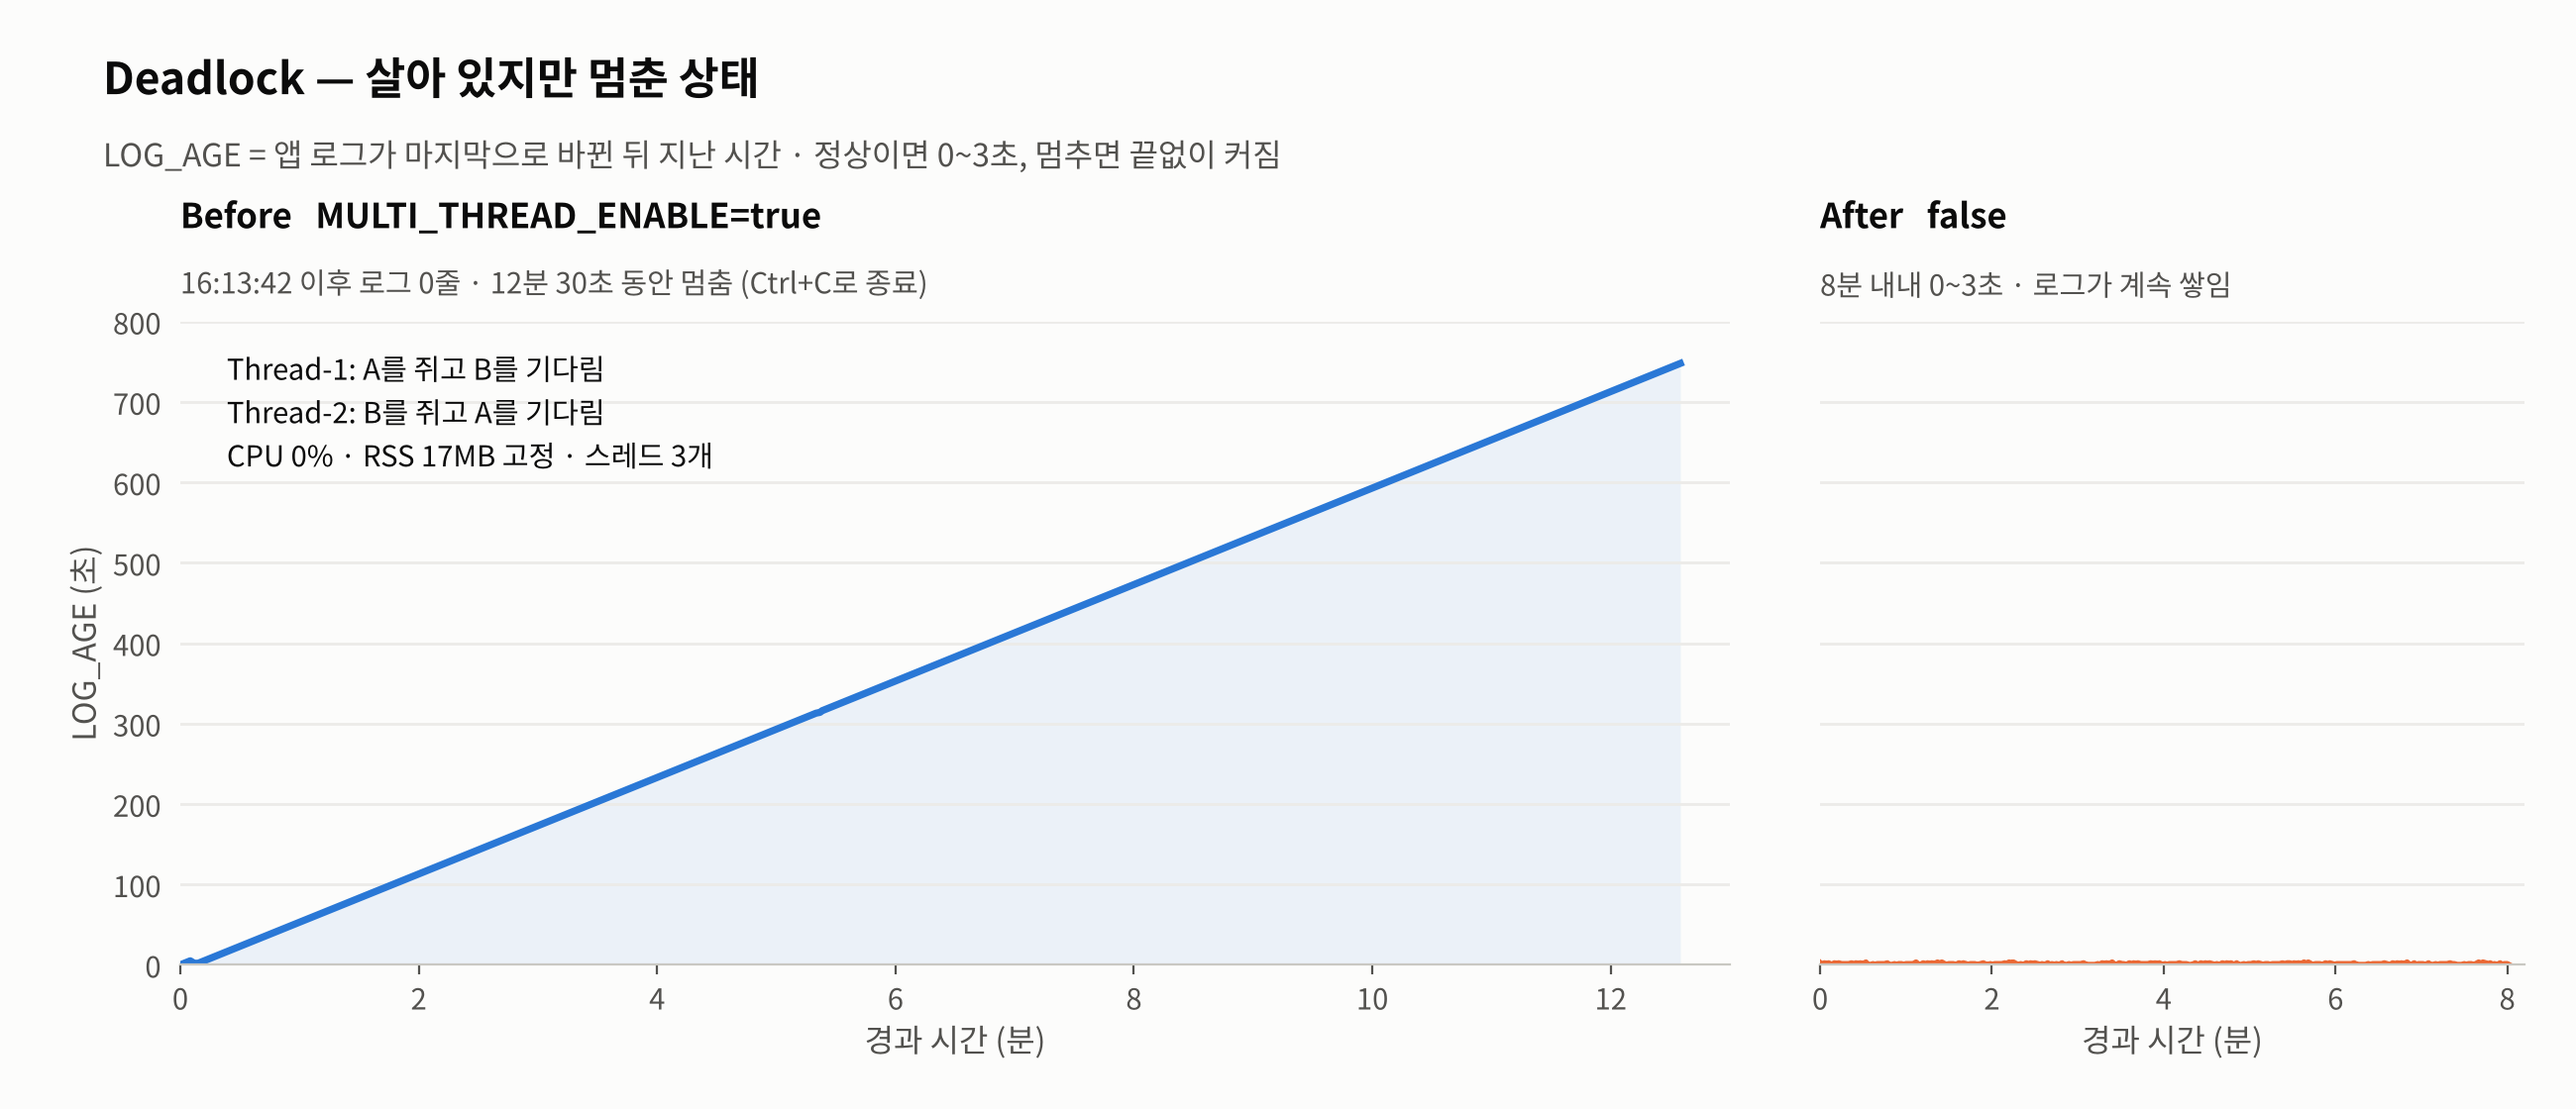
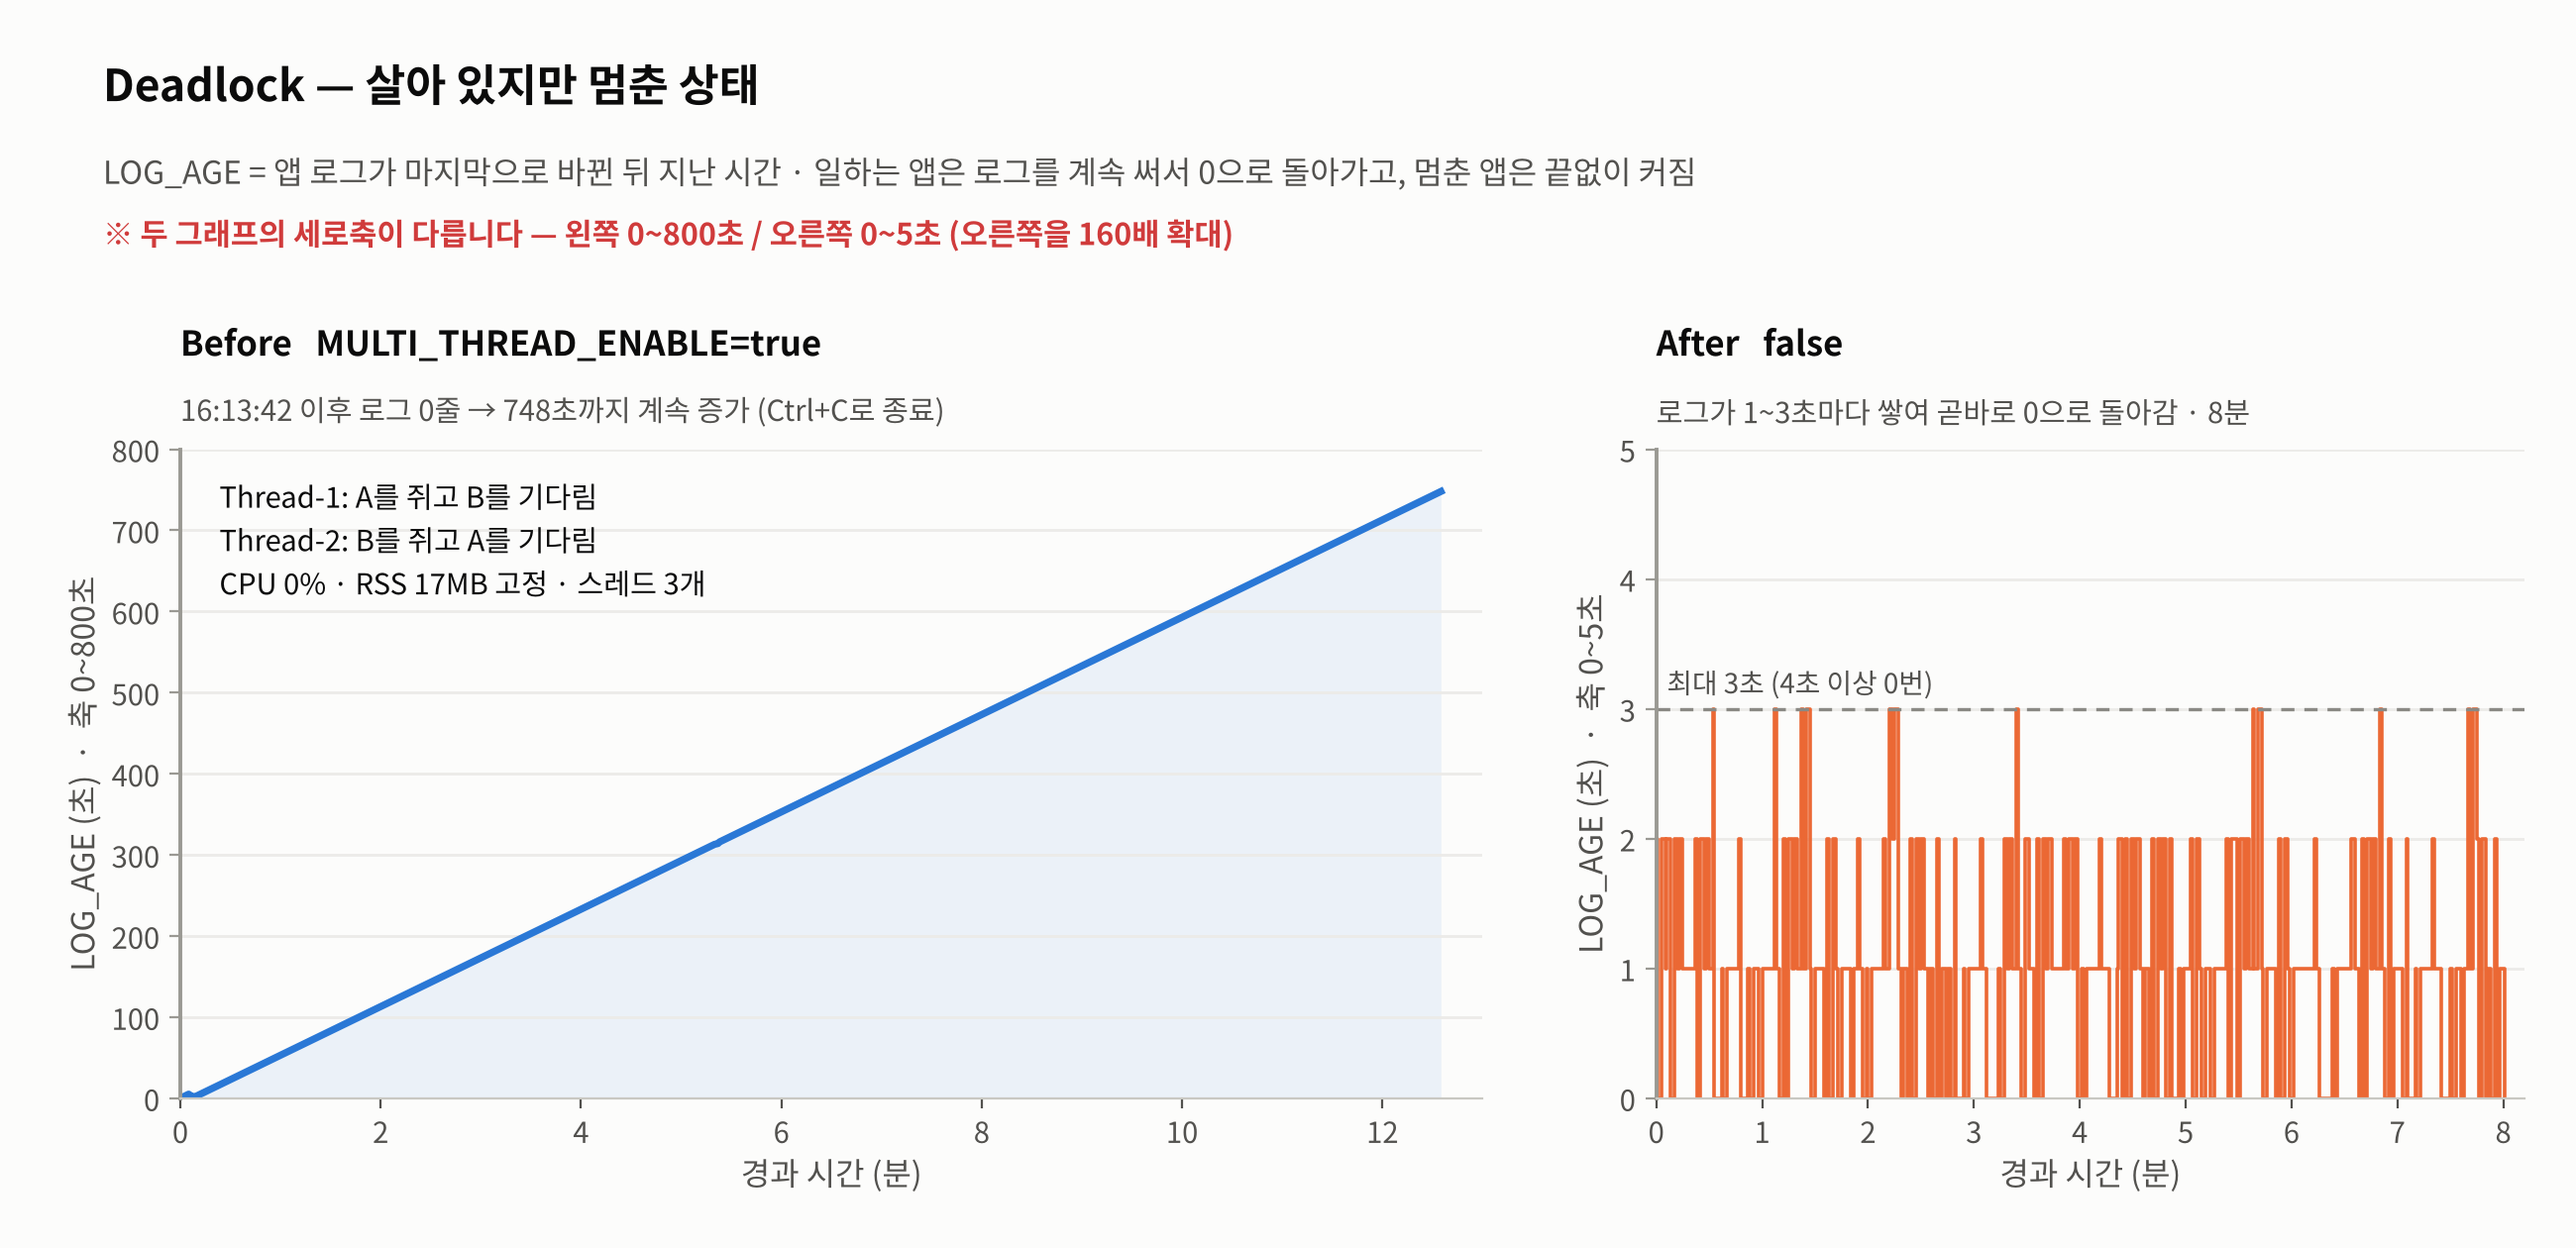
Part 1에 실험 3가지 섹션: 실험마다 바꾼 값·로그·그래프·결론을 한곳에. Deadlock 그래프 After는 0~5초 별도 축으로 다시 그림
Claude-Session: https://claude.ai/code/session_01Fc1TnFAbeVJZrePp6zASFu

diff --git a/README.md b/README.md
@@ -14,7 +14,7 @@
 
 | 부분 | 내용 | 바로 가기 |
 |:--|:--|:--|
-| **Part 1** 과제 이해와 수행 | 무슨 과제인지, 어떤 프로그램인지, 어떻게 분석했고 결과가 무엇인지 (Before → After 그래프 포함) | [이 과제는 무엇인가](#-이-과제는-무엇인가) |
+| **Part 1** 과제 이해와 수행 | 무슨 과제인지, 어떤 프로그램인지, 어떻게 분석했고 결과가 무엇인지 (실험 3가지의 로그·그래프·결론 포함) | [이 과제는 무엇인가](#-이-과제는-무엇인가) |
 | **Part 2** 평가표 기준 설명 | 평가표 20문항을 원문 순서대로, 질문마다 답과 근거(그래프·로그·스크린샷) | [한눈에 보는 답](#-한눈에-보는-답-20문항) |
 | └ 리포트 3건 | GitHub Issue 형식 (현상 → 증거 → 원인 → 조치) | [1-7](#1-7-format-리포트-3건의-issue-구조) |
 | └ 스크린샷 16장 | 사진마다 강조와 근거·의미 설명 | [1-8](#1-8-evidence-pid--타임스탬프--핵심-로그-증거) |
@@ -146,40 +146,83 @@
 | **조치** | `MEMORY_LIMIT` 128 → **512** | `CPU_MAX_OCCUPY` 100 → **40** | `MULTI_THREAD_ENABLE` → **false** |
 | **After** | ✅ 8분 이상 생존 | ✅ 8분 이상 생존 | ✅ 로그가 계속 쌓임 |
 
-> 장애 이름을 누르면 Part 2의 증거로 이동합니다. 리포트 3건 전문은 [1-7](#1-7-format-리포트-3건의-issue-구조)에 있습니다.
+> 실험별 로그·그래프는 바로 아래 [🧪 실험 3가지](#-실험-3가지-무엇을-바꿨고-무엇이-보였나)에, 평가표 답은 장애 이름을 누르면 Part 2로 이동합니다. 리포트 3건 전문은 [1-7](#1-7-format-리포트-3건의-issue-구조)에 있습니다.
 
-### 📊 그래프로 보는 Before → After
+<br>
 
-세 그래프 모두 **왼쪽이 장애 값(Before), 오른쪽이 고친 값(After)** 입니다. monitor.sh가 1초마다 잰 실측값과 앱 로그로 그렸습니다.
+## 🧪 실험 3가지: 무엇을 바꿨고 무엇이 보였나
 
-#### 🔴 OOM - 메모리가 한도를 넘는가
+**실험 방법** - 정상값(`512 / 40 / false`)에서 **값 하나만** 바꿔 실행하고, 다른 탭에서 monitor.sh로 1초마다 기록했습니다. 고친 값(After)은 정상 실행 한 번(PID 7633, 8분)으로 세 실험을 함께 비교합니다.
+
+각 실험은 **① 무엇을 바꿨나 → ② 앱 로그 → ③ 그래프(왼쪽 Before / 오른쪽 After) → ④ 결론** 순서입니다.
+
+### 🔴 실험 1. OOM - 메모리가 한도를 넘는가
+
+| 바꾼 값 | 실행 | PID · 시각 | 결과 |
+|:--|:--|:--|:--|
+| `MEMORY_LIMIT` 512 → **128** | `MEMORY_LIMIT=128 ./agent-leak-app-x86` | 2363 · 16:06:21 ~ 16:06:38 | **17초 만에 강제 종료** (exit=137) |
+
+```
+16:06:38 [INFO]     [MemoryWorker] Current Heap: 150MB
+16:06:38 [CRITICAL] [MemoryGuard] Memory limit exceeded (150MB >= 128MB)
+16:06:38 [CRITICAL] [MemoryGuard] Self-terminating process 2363 to prevent system instability.
+Killed / exit=137   ← 128 + 9 = SIGKILL
+```
 
 ![OOM Before & After](images/chart_oom.png)
 
-- **Before (128MB)** - 메모리가 3초마다 25MB씩 계단처럼 오르다가, 한도 128MB를 넘자 **17초 만에 강제 종료**(빨간 점)
-- **After (512MB)** - 똑같이 오르지만 525MB에서 앱이 스스로 정리하고 다시 오름(톱니 모양 7번) → **8분 이상 생존**
-- 읽는 법: 오르는 속도는 둘이 같습니다. **한도만 높여 시간을 번 것**이라 근본 해결은 아닙니다 → [4-4](#4-4-코드-레벨-개선)
+- **Before (128MB)** - 메모리가 3초마다 25MB씩 계단처럼 오르다가, 한도 128MB를 넘자 강제 종료(빨간 점)
+- **After (512MB)** - 똑같이 오르지만 525MB에서 앱이 스스로 정리하고 다시 오름(톱니 7번) → **8분 이상 생존**
+- **결론** - 오르는 속도는 둘이 같습니다. **한도만 높여 시간을 번 임시 조치**이고, 근본 해결은 [4-4 코드 개선](#4-4-코드-레벨-개선)입니다
 
-#### 🟠 CPU Spike - 부하가 종료 기준을 넘는가
+📸 [스크린샷 1-1 · 1-2](#-1--oom-실험) · 📄 [리포트](#bug-oom---메모리가-3초마다-25mb씩-쌓이다가-17초-만에-memoryguard가-프로세스를-강제-종료) · ✅ 평가표 [1-1](#1-1-oom-메모리-선형-증가--강제-종료-패턴) · [1-2](#1-2-oom-memory_limit-조정-before--after)
+
+### 🟠 실험 2. CPU Spike - 부하가 종료 기준을 넘는가
+
+| 바꾼 값 | 실행 | PID · 시각 | 결과 |
+|:--|:--|:--|:--|
+| `CPU_MAX_OCCUPY` 40 → **100** | `CPU_MAX_OCCUPY=100 ./agent-leak-app-x86` | 2606 · 16:09:03 ~ 16:09:48 | **46초 만에 종료** (exit=143) |
+
+```
+16:09:33 [INFO]     [CpuWorker] Current Load: 40.87%
+16:09:48 [INFO]     [CpuWorker] Current Load: 51.22%
+16:09:48 [CRITICAL] [CpuWorker] CPU Threshold Violated! (51.22%).
+>>> [SYSTEM] WATCHDOG: INITIATING EMERGENCY ABORT (SIGTERM) <<<
+Terminated / exit=143   ← 128 + 15 = SIGTERM
+```
 
 ![CPU Before & After](images/chart_cpu.png)
 
-- **Before (100%)** - 앱이 보고한 부하(파랑)가 계속 올라 빨간 점선(약 50%)을 넘는 순간 **46초 만에 종료**
+- **Before (100%)** - 앱이 보고한 부하(파랑)가 계속 올라 빨간 점선(약 50%)을 넘는 순간 종료. 같은 설정으로 6번 실행해 6번 모두 50~57%에서 종료
 - **After (40%)** - 40%에 닿으면 식혔다가 다시 오름 → 점선에 한 번도 닿지 않고 **8분 이상 생존**
-- 읽는 법: 주황선(OS가 잰 실제 CPU)은 내내 0~10%입니다. 종료를 결정한 것은 **앱이 스스로 보고한 수치**입니다
+- **결론** - 주황선(OS가 잰 실제 CPU)은 내내 0~10%입니다. 종료를 결정한 것은 **앱이 스스로 보고한 수치**이고, 부하 상한(100)이 종료 기준(50)보다 높게 설정된 것이 원인입니다
 
-#### 🟣 Deadlock - 살아 있는데 일을 하는가
+📸 [스크린샷 2-1 ~ 2-3](#-2--cpu-spike-실험) · 📄 [리포트](#bug-cpu-spike---앱이-보고한-cpu-부하가-50를-넘는-순간-watchdog이-sigterm으로-종료) · ✅ 평가표 [1-3](#1-3-cpu-임계치-초과--종료-패턴) · [1-4](#1-4-cpu-cpu_max_occupy-조정-before--after)
+
+### 🟣 실험 3. Deadlock - 살아 있는데 일을 하는가
+
+| 바꾼 값 | 실행 | PID · 시각 | 결과 |
+|:--|:--|:--|:--|
+| `MULTI_THREAD_ENABLE` false → **true** | `MULTI_THREAD_ENABLE=true ./agent-leak-app-x86` | 2916 · 16:13:40 ~ | **꺼지지 않고 멈춤** (12분 29초 뒤 Ctrl+C) |
+
+```
+16:13:40 [Worker-Thread-1] LOCK ACQUIRED: [Shared_Memory_A]. (Holding...)
+16:13:40 [Worker-Thread-2] LOCK ACQUIRED: [Socket_Pool_B]. (Holding...)
+16:13:42 [Worker-Thread-1] WAITING for [Socket_Pool_B]...   (Status: BLOCKED)
+16:13:42 [Worker-Thread-2] WAITING for [Shared_Memory_A]... (Status: BLOCKED)
+(이후 로그 0줄)
+```
 
 ![Deadlock Before & After](images/chart_deadlock.png)
 
-- 세로축 **LOG_AGE** = 앱 로그가 마지막으로 바뀐 뒤 지난 시간. 일하는 앱은 로그를 계속 쓰므로 0~3초에 머뭅니다
-- **Before (true)** - 16:13:42 이후 로그가 0줄이라 LOG_AGE가 **748초까지 직선으로 증가**. 프로세스는 살아 있고 CPU 0%, 메모리 그대로
-- **After (false)** - 8분 내내 **0~3초** → 로그가 계속 쌓임
-- 읽는 법: CPU·메모리만 보면 "쉬는 중"과 구분이 안 됩니다. **로그가 멈췄다는 사실**이 멈춤의 증거입니다
-
-왜 멈췄는지는 로그 세 줄로 설명됩니다. 두 일꾼이 각자 열쇠 하나를 쥔 채 상대의 열쇠를 기다립니다.
+- 세로축 **LOG_AGE** = 앱 로그가 마지막으로 바뀐 뒤 지난 시간. 일하는 앱은 로그를 계속 쓰므로 곧바로 0으로 돌아갑니다
+- **Before (true)** - 로그가 멈춰 LOG_AGE가 **748초까지 직선으로 증가**. 프로세스는 살아 있고 CPU 0%, 메모리 그대로
+- **After (false)** - 0→1→2→0을 반복하며 **8분 동안 한 번도 3초를 넘지 않음** → 로그가 계속 쌓임. ⚠ 오른쪽 그래프는 세로축이 **0~5초**로 확대되어 있습니다
+- **결론** - CPU·메모리만 보면 "쉬는 중"과 구분이 안 됩니다. **로그가 멈췄다는 사실**이 멈춤의 증거이고, 원인은 아래 그림처럼 두 일꾼이 서로의 열쇠를 기다리는 **순환 대기**입니다
 
 ![로그에서 순환 대기로](images/07-deadlock-log-to-cycle.svg)
+
+📸 [스크린샷 3-1 ~ 3-6](#-3--deadlock-실험) · 📄 [리포트](#bug-deadlock---멀티스레드-모드에서-두-스레드가-서로의-자원을-기다리며-12분-넘게-무응답) · ✅ 평가표 [1-5](#1-5-deadlock-살아-있지만-멈춘-상태-식별) · [1-6](#1-6-deadlock-multi_thread_enable-재현과-회피)
 
 <br>
 
